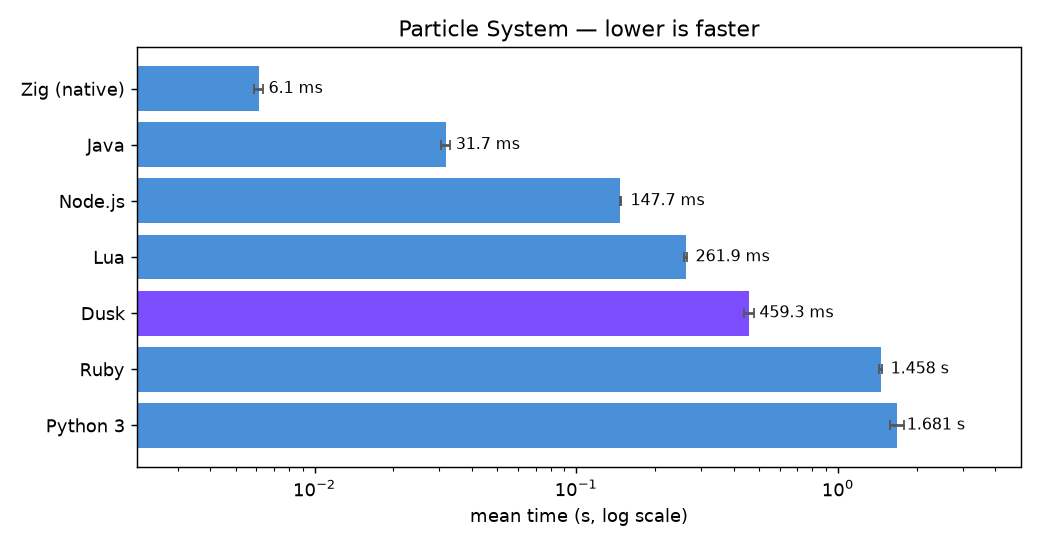
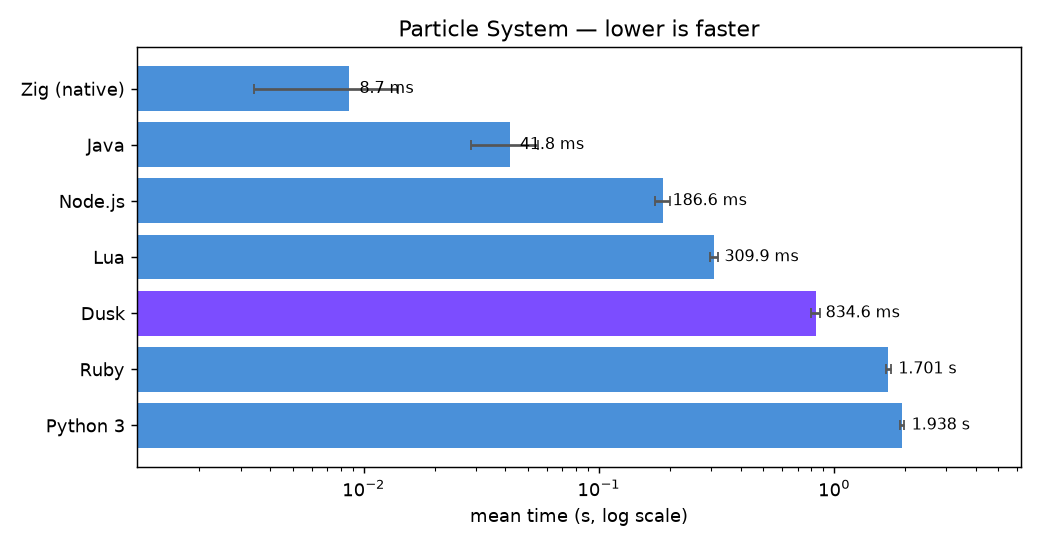
benchmark: regenerate report for v0.13

diff --git a/benchmarks/benchmark.md b/benchmarks/benchmark.md
@@ -16,19 +16,19 @@ python3 run_benchmarks.py
 | Field | Value |
 | --- | --- |
 | OS | Fedora Linux 44 (Workstation Edition) |
-| Kernel | Linux 7.2.10-200.fc44.x86_64 |
+| Kernel | Linux 7.2.13-200.fc44.x86_64 |
 | Architecture | x86_64 |
 | CPU | AMD Ryzen 5 5600X 6-Core Processor |
 | Cores / Threads | 6 cores / 12 threads |
 | CPU max | 4.65 GHz |
 | Memory | 31.2 GiB total |
-| Date | 2026-10-25 19:48 UTC |
+| Date | 2026-11-06 02:24 UTC |
 
 ## Language toolchains
 
 | Language | Version / mode |
 | --- | --- |
-| **Dusk** | **0.11.0-devel (git 66c9cb8) — built with Zig 0.16.0, ReleaseFast** |
+| **Dusk** | **0.13.0 (git 26157d0) — built with Zig 0.16.0, ReleaseFast** |
 | Zig (native) | 0.16.0 — native baseline, build-exe -OReleaseFast |
 | Java | openjdk version 25.0.4.1 2026-08-18 — precompiled with javac, JVM startup included |
 | Node.js | v22.23.1 |
@@ -55,13 +55,13 @@ Expected output: `9227465`
 
 | Language | Mean | Std dev | Min | Max | Relative | Peak mem |
 | --- | --- | --- | --- | --- | --- | --- |
-| Zig (native) | 19.1 ms | 191.9 µs | 18.9 ms | 20.1 ms | 1.00× | 0.7 MiB |
-| Java | 42.0 ms | 808.2 µs | 40.2 ms | 43.3 ms | 2.20× | 38.3 MiB |
-| Node.js | 144.3 ms | 975.1 µs | 142.6 ms | 146.0 ms | 7.56× | 58.5 MiB |
-| **Dusk** | **413.3 ms** | **5.0 ms** | **407.9 ms** | **423.4 ms** | **21.66×** | **1.2 MiB** |
-| Lua | 452.2 ms | 6.5 ms | 443.8 ms | 459.0 ms | 23.70× | 2.7 MiB |
-| Ruby | 686.9 ms | 15.5 ms | 678.5 ms | 714.5 ms | 36.00× | 14.8 MiB |
-| Python 3 | 905.2 ms | 36.2 ms | 858.5 ms | 958.8 ms | 47.44× | 9.4 MiB |
+| Zig (native) | 21.6 ms | 4.1 ms | 19.1 ms | 34.9 ms | 1.00× | 0.7 MiB |
+| Java | 49.7 ms | 8.4 ms | 42.9 ms | 71.5 ms | 2.30× | 38.3 MiB |
+| Node.js | 173.0 ms | 17.1 ms | 149.5 ms | 196.1 ms | 8.00× | 58.7 MiB |
+| **Dusk** | **498.7 ms** | **10.9 ms** | **490.2 ms** | **515.5 ms** | **23.05×** | **1.3 MiB** |
+| Lua | 518.6 ms | 4.2 ms | 514.5 ms | 524.7 ms | 23.97× | 2.8 MiB |
+| Ruby | 751.1 ms | 26.8 ms | 713.7 ms | 780.7 ms | 34.72× | 14.5 MiB |
+| Python 3 | 959.5 ms | 16.9 ms | 943.2 ms | 984.3 ms | 44.36× | 9.2 MiB |
 
 ![Recursive Fibonacci](assets/fib.png)
 
@@ -75,13 +75,13 @@ Expected output: `50049`
 
 | Language | Mean | Std dev | Min | Max | Relative | Peak mem |
 | --- | --- | --- | --- | --- | --- | --- |
-| Zig (native) | 6.1 ms | 225.2 µs | 5.6 ms | 7.1 ms | 1.00× | 3.8 MiB |
-| Java | 31.7 ms | 1.3 ms | 30.0 ms | 36.3 ms | 5.19× | 44.2 MiB |
-| Node.js | 147.7 ms | 1.2 ms | 145.4 ms | 149.9 ms | 24.16× | 85.3 MiB |
-| Lua | 261.9 ms | 4.4 ms | 254.2 ms | 270.2 ms | 42.86× | 21.6 MiB |
-| **Dusk** | **459.3 ms** | **20.6 ms** | **422.5 ms** | **483.9 ms** | **75.16×** | **17.0 MiB** |
-| Ruby | 1.458 s | 17.5 ms | 1.438 s | 1.481 s | 238.57× | 30.8 MiB |
-| Python 3 | 1.681 s | 103.7 ms | 1.571 s | 1.803 s | 275.06× | 34.9 MiB |
+| Zig (native) | 8.7 ms | 5.3 ms | 5.8 ms | 44.8 ms | 1.00× | 3.8 MiB |
+| Java | 41.8 ms | 13.3 ms | 31.8 ms | 76.9 ms | 4.81× | 43.8 MiB |
+| Node.js | 186.6 ms | 13.8 ms | 160.1 ms | 202.0 ms | 21.47× | 85.2 MiB |
+| Lua | 309.9 ms | 12.4 ms | 293.1 ms | 331.8 ms | 35.65× | 21.5 MiB |
+| **Dusk** | **834.6 ms** | **34.9 ms** | **795.8 ms** | **869.2 ms** | **95.99×** | **16.9 MiB** |
+| Ruby | 1.701 s | 38.5 ms | 1.665 s | 1.755 s | 195.59× | 30.7 MiB |
+| Python 3 | 1.938 s | 36.8 ms | 1.893 s | 1.992 s | 222.93× | 34.9 MiB |
 
 ![Particle System](assets/particles.png)
 
@@ -95,13 +95,13 @@ Expected output: `9592`
 
 | Language | Mean | Std dev | Min | Max | Relative | Peak mem |
 | --- | --- | --- | --- | --- | --- | --- |
-| Zig (native) | 719.9 µs | 54.9 µs | 579.7 µs | 901.8 µs | 1.00× | 0.8 MiB |
-| Lua | 5.3 ms | 203.3 µs | 4.8 ms | 5.9 ms | 7.30× | 4.8 MiB |
-| **Dusk** | **9.0 ms** | **368.8 µs** | **8.1 ms** | **10.8 ms** | **12.51×** | **3.0 MiB** |
-| Java | 16.4 ms | 361.5 µs | 15.9 ms | 17.6 ms | 22.83× | 38.1 MiB |
-| Python 3 | 22.3 ms | 655.7 µs | 21.3 ms | 25.6 ms | 31.04× | 10.1 MiB |
-| Ruby | 44.4 ms | 527.3 µs | 43.6 ms | 46.8 ms | 61.73× | 15.3 MiB |
-| Node.js | 73.1 ms | 820.1 µs | 71.4 ms | 74.9 ms | 101.53× | 59.7 MiB |
+| Zig (native) | 877.2 µs | 632.7 µs | 597.1 µs | 8.4 ms | 1.00× | 0.8 MiB |
+| Lua | 6.6 ms | 3.3 ms | 4.8 ms | 27.4 ms | 7.49× | 4.8 MiB |
+| **Dusk** | **12.2 ms** | **4.3 ms** | **10.0 ms** | **35.4 ms** | **13.91×** | **3.0 MiB** |
+| Java | 20.4 ms | 9.6 ms | 16.1 ms | 55.5 ms | 23.25× | 38.3 MiB |
+| Python 3 | 26.8 ms | 9.4 ms | 21.7 ms | 62.6 ms | 30.55× | 10.1 MiB |
+| Ruby | 55.1 ms | 15.8 ms | 44.7 ms | 90.1 ms | 62.79× | 15.2 MiB |
+| Node.js | 93.4 ms | 18.8 ms | 74.6 ms | 130.9 ms | 106.42× | 59.7 MiB |
 
 ![Sieve of Eratosthenes](assets/primes.png)
 
@@ -115,13 +115,13 @@ Expected output: `5001`
 
 | Language | Mean | Std dev | Min | Max | Relative | Peak mem |
 | --- | --- | --- | --- | --- | --- | --- |
-| Zig (native) | 651.1 µs | 54.0 µs | 534.1 µs | 818.2 µs | 1.00× | 0.8 MiB |
-| Lua | 3.0 ms | 84.1 µs | 2.7 ms | 3.3 ms | 4.59× | 3.1 MiB |
-| **Dusk** | **4.7 ms** | **132.8 µs** | **4.3 ms** | **5.1 ms** | **7.23×** | **1.5 MiB** |
-| Python 3 | 14.2 ms | 231.5 µs | 13.8 ms | 15.2 ms | 21.75× | 9.8 MiB |
-| Java | 15.8 ms | 366.0 µs | 14.9 ms | 17.3 ms | 24.26× | 38.3 MiB |
-| Ruby | 40.4 ms | 385.2 µs | 39.7 ms | 41.7 ms | 62.05× | 14.7 MiB |
-| Node.js | 71.6 ms | 1.0 ms | 70.1 ms | 74.0 ms | 110.01× | 58.9 MiB |
+| Zig (native) | 783.4 µs | 608.2 µs | 547.0 µs | 8.8 ms | 1.00× | 0.7 MiB |
+| Lua | 3.4 ms | 1.6 ms | 2.7 ms | 16.7 ms | 4.39× | 3.0 MiB |
+| **Dusk** | **6.1 ms** | **2.1 ms** | **5.1 ms** | **20.7 ms** | **7.73×** | **1.6 MiB** |
+| Python 3 | 18.5 ms | 7.5 ms | 14.2 ms | 50.7 ms | 23.66× | 9.7 MiB |
+| Java | 21.7 ms | 10.4 ms | 16.1 ms | 59.0 ms | 27.64× | 38.1 MiB |
+| Ruby | 52.5 ms | 15.7 ms | 41.1 ms | 89.4 ms | 67.00× | 14.6 MiB |
+| Node.js | 96.4 ms | 19.7 ms | 77.1 ms | 125.8 ms | 123.10× | 58.9 MiB |
 
 ![QuickSort](assets/quicksort.png)
 
@@ -135,17 +135,77 @@ Expected output: `141554306`
 
 | Language | Mean | Std dev | Min | Max | Relative | Peak mem |
 | --- | --- | --- | --- | --- | --- | --- |
-| Zig (native) | 306.0 ms | 42.3 µs | 306.0 ms | 306.1 ms | 1.00× | 0.7 MiB |
-| Java | 329.0 ms | 417.9 µs | 328.1 ms | 329.5 ms | 1.07× | 38.9 MiB |
-| Node.js | 379.8 ms | 530.0 µs | 379.1 ms | 380.6 ms | 1.24× | 60.8 MiB |
-| Lua | 4.387 s | 108.8 ms | 4.250 s | 4.525 s | 14.33× | 3.0 MiB |
-| **Dusk** | **7.713 s** | **54.2 ms** | **7.640 s** | **7.772 s** | **25.20×** | **1.2 MiB** |
-| Ruby | 9.987 s | 330.3 ms | 9.691 s | 10.509 s | 32.63× | 14.6 MiB |
-| Python 3 | 38.806 s | 806.4 ms | 38.205 s | 40.206 s | 126.80× | 9.5 MiB |
+| Zig (native) | 319.7 ms | 3.0 ms | 315.1 ms | 325.0 ms | 1.00× | 0.7 MiB |
+| Java | 354.8 ms | 13.0 ms | 342.7 ms | 379.1 ms | 1.11× | 38.7 MiB |
+| Node.js | 419.2 ms | 20.0 ms | 401.9 ms | 447.3 ms | 1.31× | 60.7 MiB |
+| Lua | 4.465 s | 121.6 ms | 4.274 s | 4.568 s | 13.97× | 3.0 MiB |
+| Ruby | 10.556 s | 371.7 ms | 10.227 s | 11.128 s | 33.01× | 14.6 MiB |
+| **Dusk** | **10.780 s** | **103.1 ms** | **10.618 s** | **10.880 s** | **33.71×** | **1.3 MiB** |
+| Python 3 | 43.590 s | 1.307 s | 41.793 s | 44.991 s | 136.33× | 9.4 MiB |
 
 ![Mandelbrot](assets/mandelbrot.png)
 
 ![Mandelbrot memory](assets/mandelbrot_mem.png)
+
+### Strings (`strings`)
+
+1,000,000 iterations of: build "item {i}: value={i*3} tag={name}" by interpolation, split it on spaces, join the pieces with commas; print the sum of the line, piece-count and joined lengths.
+
+Expected output: `73037032`
+
+| Language | Mean | Std dev | Min | Max | Relative | Peak mem |
+| --- | --- | --- | --- | --- | --- | --- |
+| Zig (native) | 93.8 ms | 2.8 ms | 89.0 ms | 102.3 ms | 1.00× | 0.7 MiB |
+| **Dusk** | **283.6 ms** | **6.5 ms** | **275.9 ms** | **298.8 ms** | **3.02×** | **3.1 MiB** |
+| Java | 342.4 ms | 7.6 ms | 331.8 ms | 353.2 ms | 3.65× | 286.5 MiB |
+| Node.js | 475.3 ms | 31.7 ms | 441.3 ms | 521.0 ms | 5.07× | 90.8 MiB |
+| Python 3 | 582.9 ms | 16.4 ms | 566.1 ms | 606.8 ms | 6.22× | 9.3 MiB |
+| Ruby | 943.6 ms | 23.7 ms | 928.6 ms | 985.5 ms | 10.06× | 14.6 MiB |
+| Lua | 1.143 s | 11.5 ms | 1.129 s | 1.158 s | 12.19× | 2.9 MiB |
+
+![Strings](assets/strings.png)
+
+![Strings memory](assets/strings_mem.png)
+
+### String Concatenation (`concat`)
+
+Grow a string by appending "ab" 200,000 times with plain concatenation (no builder), so every step copies the whole string; print the final length.
+
+Expected output: `400000`
+
+| Language | Mean | Std dev | Min | Max | Relative | Peak mem |
+| --- | --- | --- | --- | --- | --- | --- |
+| Node.js | 98.7 ms | 8.0 ms | 88.7 ms | 119.6 ms | 0.15× | 70.6 MiB |
+| Zig (native) | 660.3 ms | 8.8 ms | 649.5 ms | 669.1 ms | 1.00× | 1.3 MiB |
+| **Dusk** | **1.174 s** | **19.7 ms** | **1.149 s** | **1.193 s** | **1.78×** | **3.5 MiB** |
+| Java | 3.363 s | 39.9 ms | 3.300 s | 3.405 s | 5.09× | 592.9 MiB |
+| Ruby | 3.783 s | 445.5 ms | 3.420 s | 4.343 s | 5.73× | 78.8 MiB |
+| Lua | 4.842 s | 63.9 ms | 4.774 s | 4.946 s | 7.33× | 4.9 MiB |
+| Python 3 | 4.956 s | 601.0 ms | 3.914 s | 5.403 s | 7.51× | 10.1 MiB |
+
+![String Concatenation](assets/concat.png)
+
+![String Concatenation memory](assets/concat_mem.png)
+
+### CSV Parsing (`parse`)
+
+Build 500,000 "i,(i*7)%1000,item{i}" rows, join them with newlines, then split the text back into rows and fields and parse the first two fields as ints; print their sum plus the row count.
+
+Expected output: `125250000000`
+
+| Language | Mean | Std dev | Min | Max | Relative | Peak mem |
+| --- | --- | --- | --- | --- | --- | --- |
+| Zig (native) | 52.6 ms | 950.4 µs | 51.3 ms | 56.8 ms | 1.00× | 49.4 MiB |
+| Java | 230.6 ms | 2.8 ms | 226.4 ms | 236.2 ms | 4.39× | 259.8 MiB |
+| Node.js | 334.7 ms | 10.6 ms | 325.7 ms | 358.3 ms | 6.37× | 209.0 MiB |
+| Python 3 | 354.2 ms | 6.2 ms | 345.4 ms | 364.5 ms | 6.74× | 88.6 MiB |
+| **Dusk** | **411.7 ms** | **3.7 ms** | **407.8 ms** | **416.8 ms** | **7.83×** | **232.4 MiB** |
+| Lua | 497.0 ms | 17.4 ms | 480.2 ms | 524.2 ms | 9.45× | 82.2 MiB |
+| Ruby | 556.9 ms | 11.1 ms | 548.8 ms | 574.3 ms | 10.59× | 124.6 MiB |
+
+![CSV Parsing](assets/parse.png)
+
+![CSV Parsing memory](assets/parse_mem.png)
 
 ## Time summary
 
